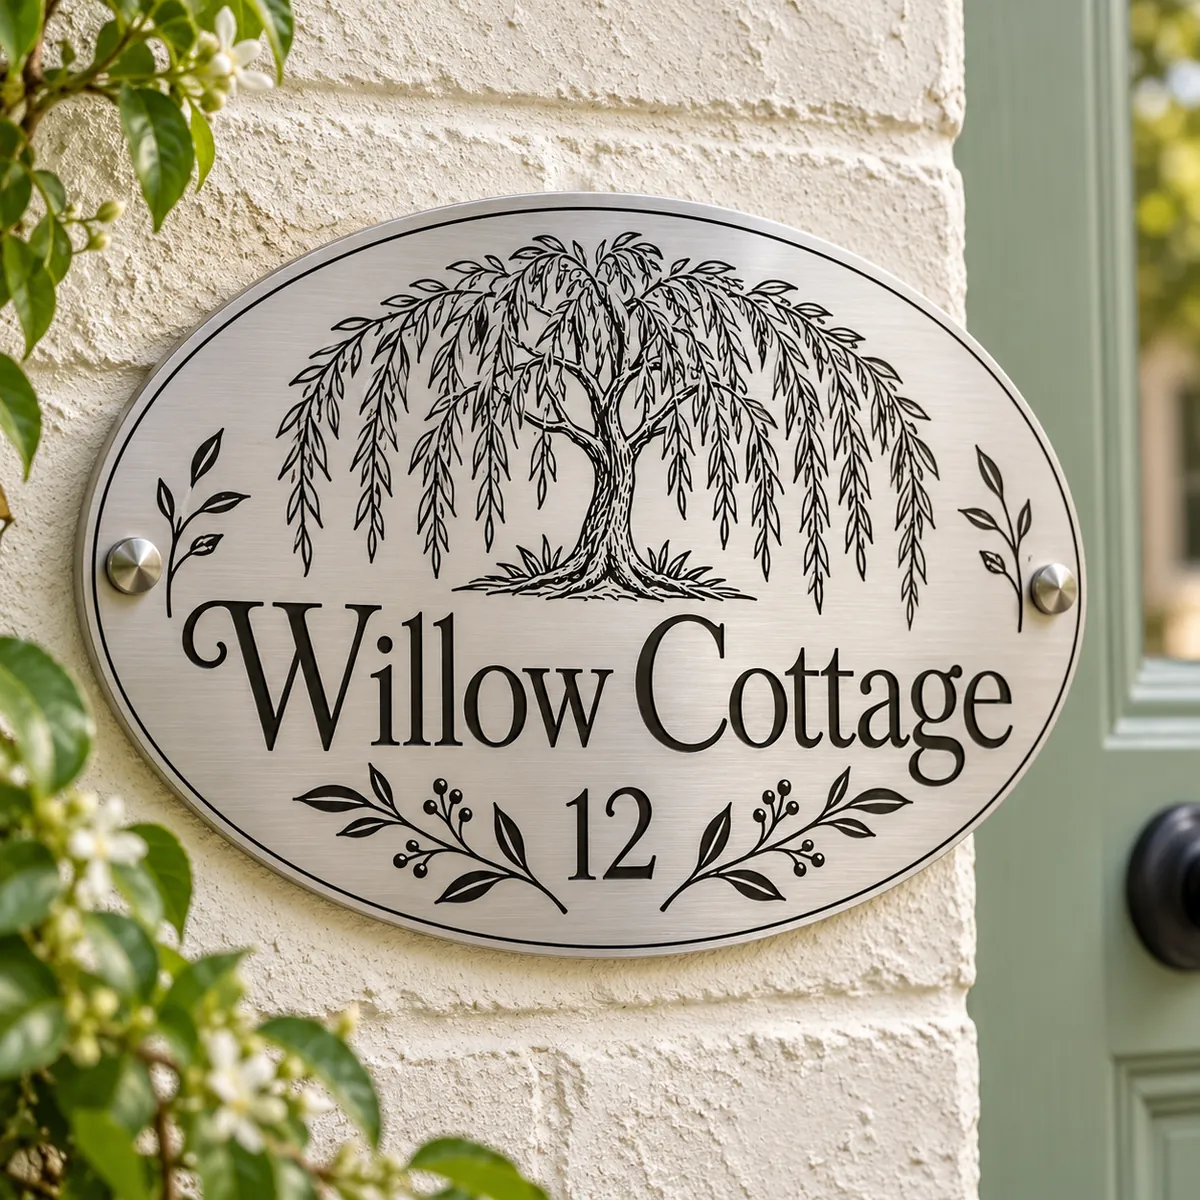
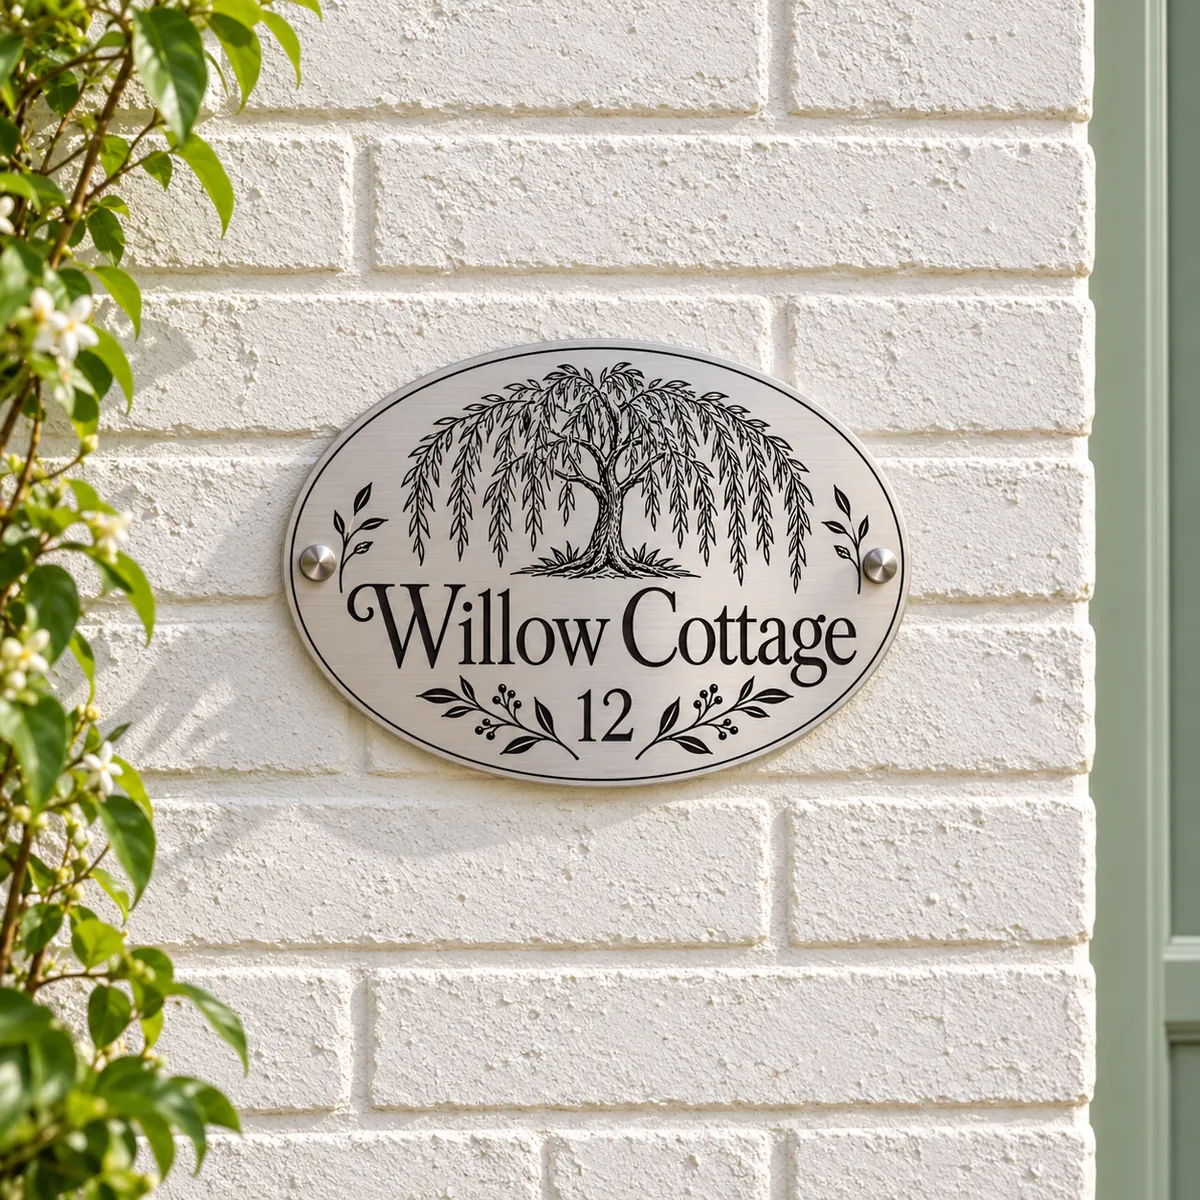
AI page: re-shoot the Willow Cottage sign centred on the wall
Owner msg 5198 ('do that image again so fits the wall better'). The
illustration now shows the same engraved brushed steel oval fixed flat
and centred on white-painted brickwork, in scale with the bricks and
clear of the door frame (generated from the previous image as the design
reference). Alt text updated.

diff --git a/components/FeaturePages.tsx b/components/FeaturePages.tsx
@@ -335,7 +335,7 @@ export function ShopAiDesign() {
           <span className="shop-ai-arrow" aria-hidden="true">→</span>
           <figure>
             <img src="/site-images/ai/ai-real-house-640.webp" width="640" height="640" loading="lazy"
-              alt="The same Willow Cottage design as an engraved brushed stainless steel oval sign beside a front door" />
+              alt="The same Willow Cottage design as an engraved brushed stainless steel oval sign, fixed flat to a white-painted brick wall beside a front door" />
             <figcaption><strong>Made in metal</strong>Brushed steel, engraved and filled black</figcaption>
           </figure>
         </div>
